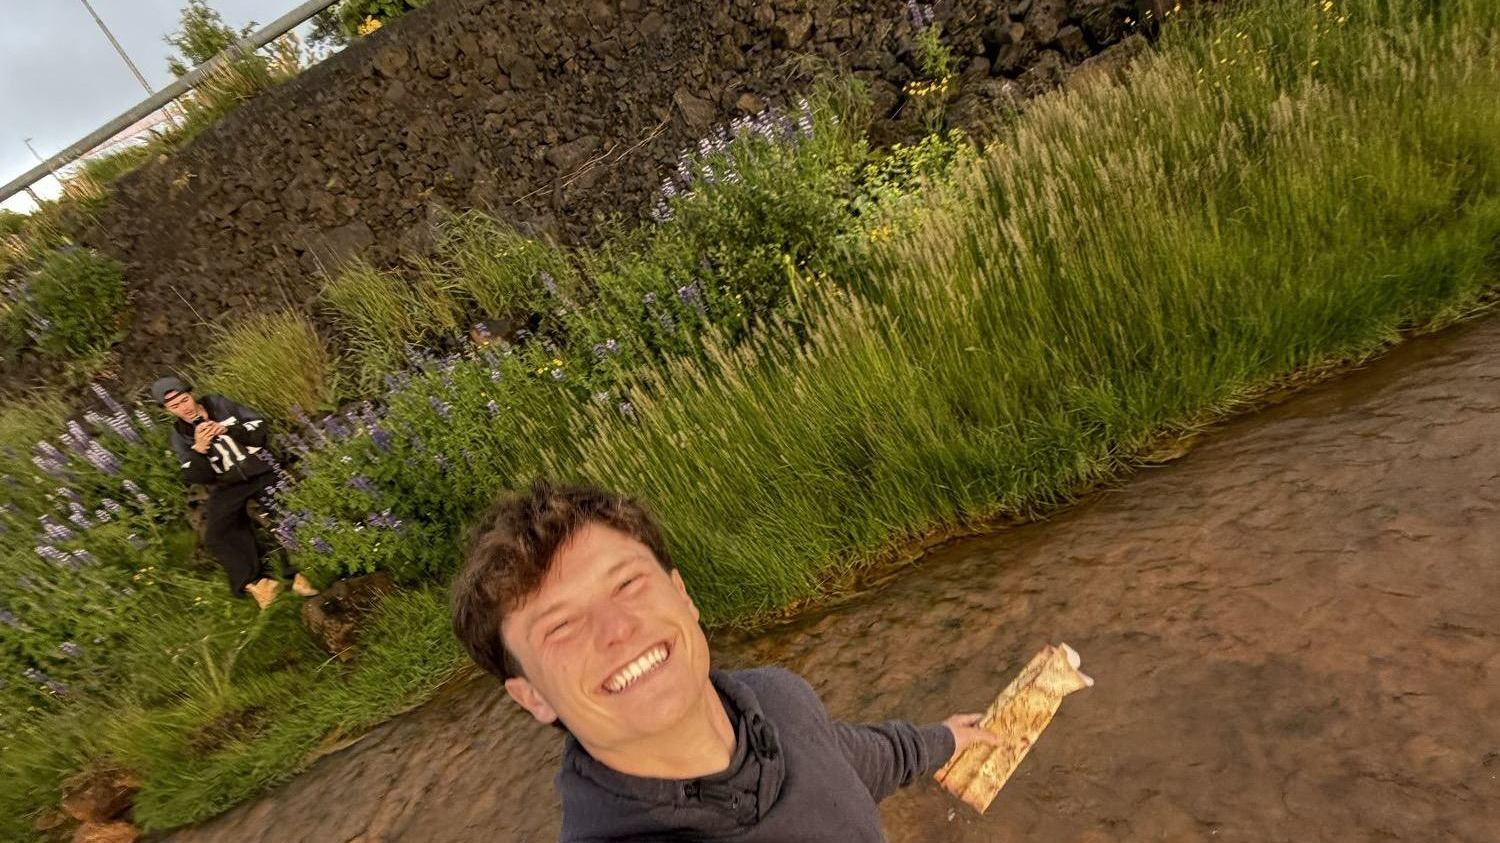
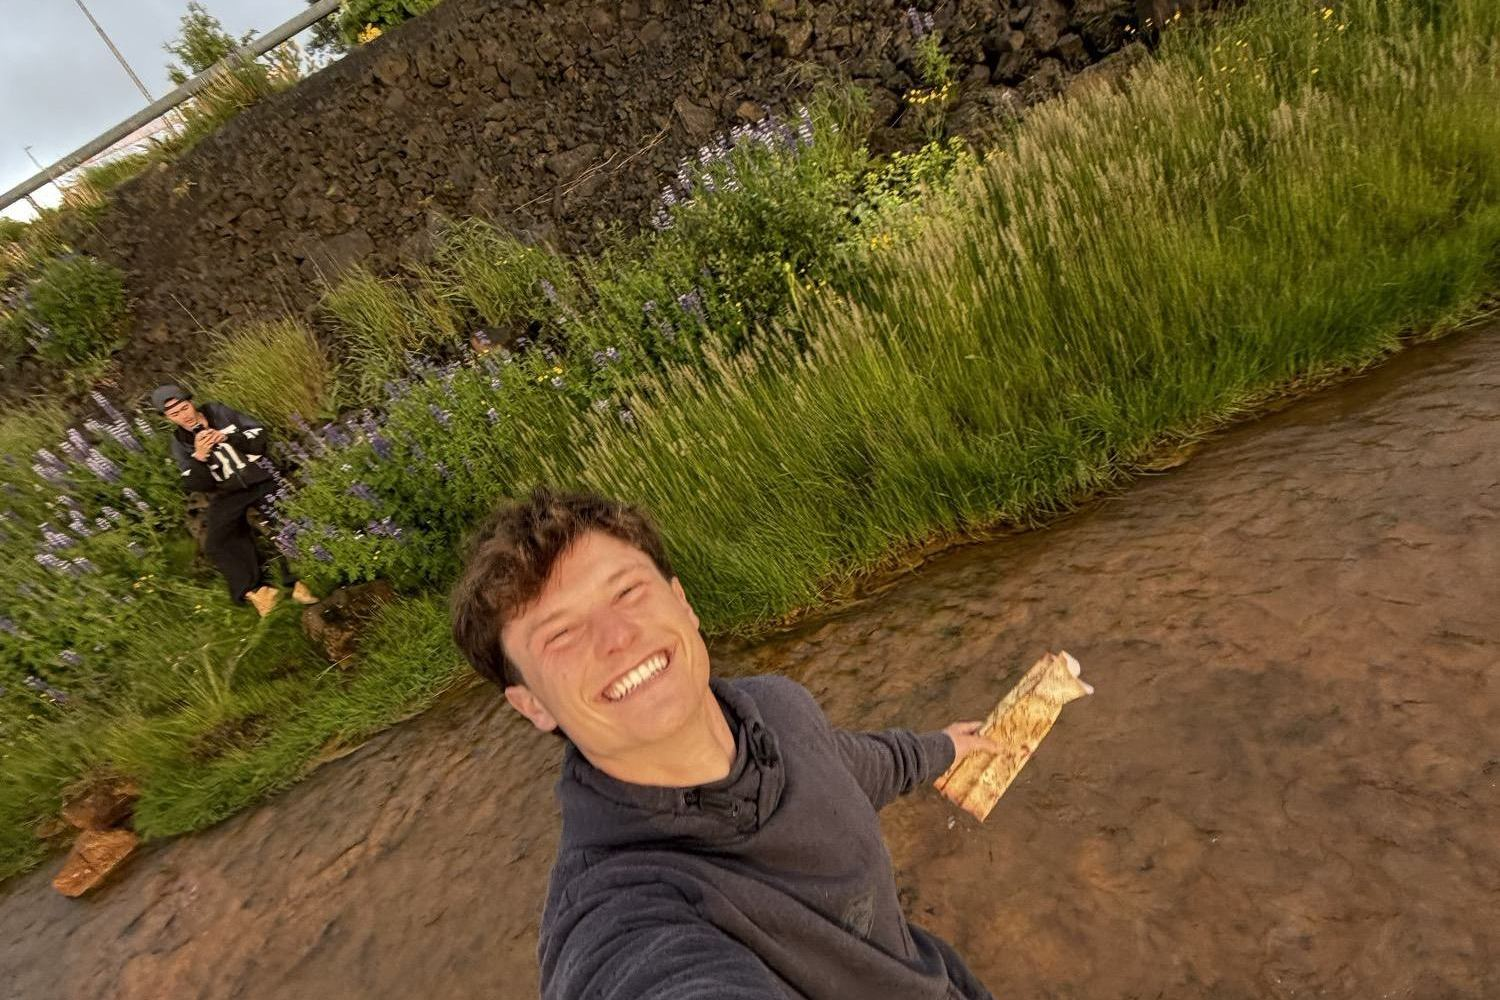
Weston keeps his arms in the rural Iceland crop
Claude-Session: https://claude.ai/code/session_01C8A69Hw64jMPueMaVpmY97

diff --git a/content/images.ts b/content/images.ts
@@ -183,7 +183,7 @@ export const IMAGES: Record<string, ImageSlot> = {
     file: "rt-treasure-hunt-wide.jpg",
     alt: "A treasure hunt clue found in a stream in rural Iceland",
     caption: { where: "Rural Iceland" },
-    ratio: "16 / 9",
+    ratio: "3 / 2",
   },
   "rt-van-life": {
     file: "rt-van-life.jpg",
